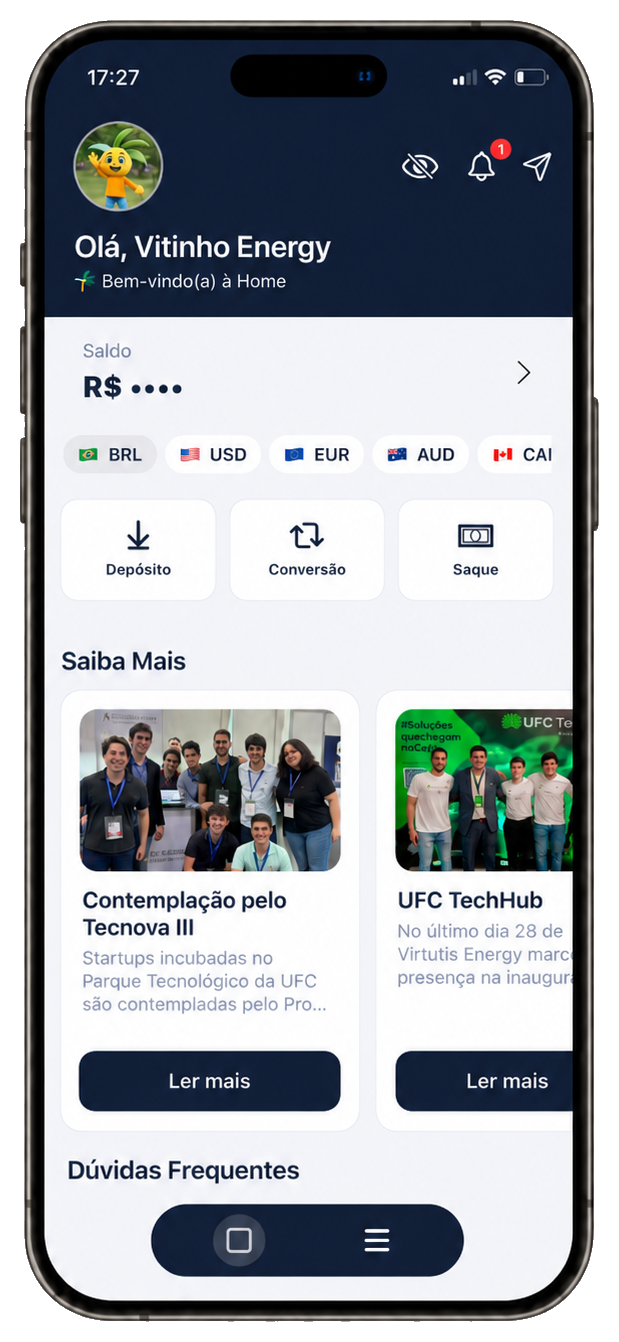
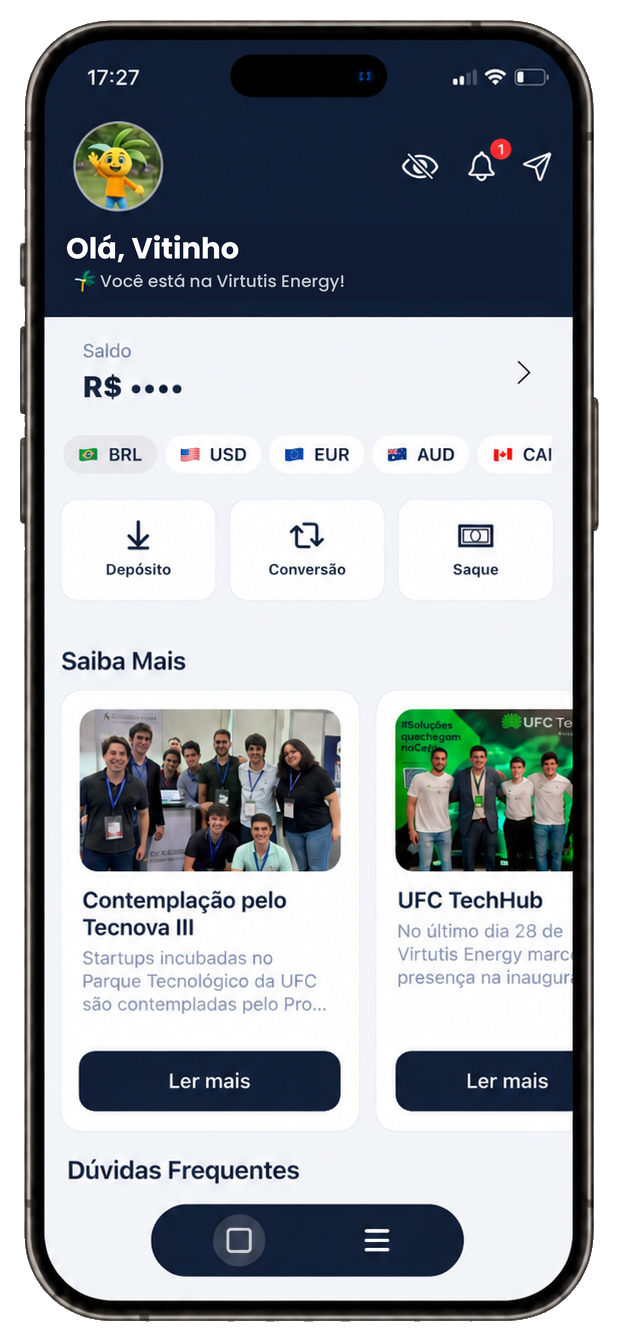
mais ajustes finos

Changed region(s): [[0.0921, 0.1528, 0.5525, 0.2139]]

diff --git a/public/styles/util/hero.css b/public/styles/util/hero.css
@@ -557,6 +557,26 @@
         padding: 0 !important;
     }
 
+    .hero::before {
+        top: 0 !important;
+        right: 0 !important;
+        bottom: auto !important;
+        left: 0 !important;
+        height: min(34svh, 260px) !important;
+        min-height: 0 !important;
+        pointer-events: none !important;
+        background: linear-gradient(
+            180deg,
+            rgba(255, 255, 255, 1) 0%,
+            rgba(255, 255, 255, 0.96) 18%,
+            rgba(255, 255, 255, 0.78) 42%,
+            rgba(255, 255, 255, 0.38) 68%,
+            rgba(255, 255, 255, 0.08) 88%,
+            rgba(255, 255, 255, 0) 100%
+        ) !important;
+        z-index: 1 !important;
+    }
+
     .hero .info {
         min-height: 114svh !important;
         padding: 106px 16px 120px !important;
@@ -667,6 +687,26 @@
         overflow: hidden !important;
         padding: 0 !important;
         margin: 0 !important;
+    }
+
+    .hero::before {
+        top: 0 !important;
+        right: 0 !important;
+        bottom: auto !important;
+        left: 0 !important;
+        height: min(30svh, 220px) !important;
+        min-height: 0 !important;
+        pointer-events: none !important;
+        background: linear-gradient(
+            180deg,
+            rgba(255, 255, 255, 1) 0%,
+            rgba(255, 255, 255, 0.97) 20%,
+            rgba(255, 255, 255, 0.8) 44%,
+            rgba(255, 255, 255, 0.42) 70%,
+            rgba(255, 255, 255, 0.1) 88%,
+            rgba(255, 255, 255, 0) 100%
+        ) !important;
+        z-index: 1 !important;
     }
 
     .hero .info {

diff --git a/app/layout.tsx b/app/layout.tsx
@@ -1,12 +1,36 @@
 // app/layout.tsx
 import './globals.css'
 import 'bootstrap/dist/css/bootstrap.min.css'
+import type { Metadata, Viewport } from 'next'
 
 import { roboto, openSans, poppins } from './fonts' // seu novo arquivo de fontes
 
-export const metadata = {
+export const metadata: Metadata = {
   title: 'Virtutis Energy',
   description: '',
+  manifest: '/manifest.webmanifest',
+  icons: {
+    icon: [
+      { url: '/favicon.ico' },
+      { url: '/icons/icon-192.png', sizes: '192x192', type: 'image/png' },
+      { url: '/icons/icon-512.png', sizes: '512x512', type: 'image/png' },
+    ],
+    apple: [
+      { url: '/apple-touch-icon.png', sizes: '570x591', type: 'image/png' },
+    ],
+  },
+  appleWebApp: {
+    capable: true,
+    statusBarStyle: 'black-translucent',
+    title: 'Virtutis Energy',
+  },
+}
+
+export const viewport: Viewport = {
+  width: 'device-width',
+  initialScale: 1,
+  viewportFit: 'cover',
+  themeColor: '#000000',
 }
 
 export default function RootLayout({ children }: { children: React.ReactNode }) {

diff --git a/app/manifest.ts b/app/manifest.ts
@@ -1,0 +1,30 @@
+import type { MetadataRoute } from 'next'
+
+export default function manifest(): MetadataRoute.Manifest {
+  return {
+    name: 'Virtutis Energy',
+    short_name: 'Virtutis Energy',
+    start_url: '/',
+    scope: '/',
+    display: 'standalone',
+    background_color: '#000000',
+    theme_color: '#000000',
+    icons: [
+      {
+        src: '/icons/icon-192.png',
+        sizes: '192x192',
+        type: 'image/png',
+      },
+      {
+        src: '/icons/icon-512.png',
+        sizes: '512x512',
+        type: 'image/png',
+      },
+      {
+        src: '/apple-touch-icon.png',
+        sizes: '570x591',
+        type: 'image/png',
+      },
+    ],
+  }
+}

diff --git a/public/styles/layouts/footer.css b/public/styles/layouts/footer.css
@@ -140,6 +140,22 @@
     width: 385px;
   }
 
+  @media (max-width: 768px) {
+    .footer {
+      margin-bottom: 0;
+      background-color: #060606;
+      padding-bottom: env(safe-area-inset-bottom, 0px);
+    }
+
+    .footer:before {
+      background: #060606;
+    }
+
+    .footer .copyright {
+      padding-bottom: calc(25px + env(safe-area-inset-bottom, 0px));
+    }
+  }
+
 
   
   

diff --git a/app/globals.css b/app/globals.css
@@ -1,5 +1,11 @@
 @import "bootstrap/dist/css/bootstrap.min.css";
 
-
+@media (max-width: 768px) {
+  html,
+  body {
+    min-height: 100%;
+    background-color: #000000;
+  }
+}
 
 
